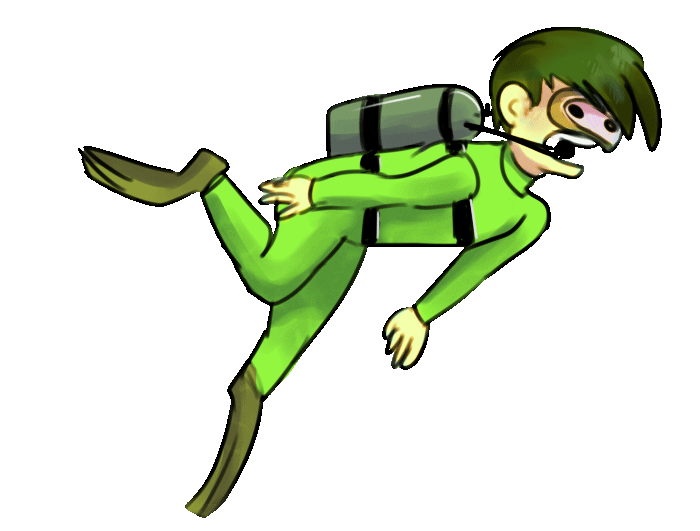
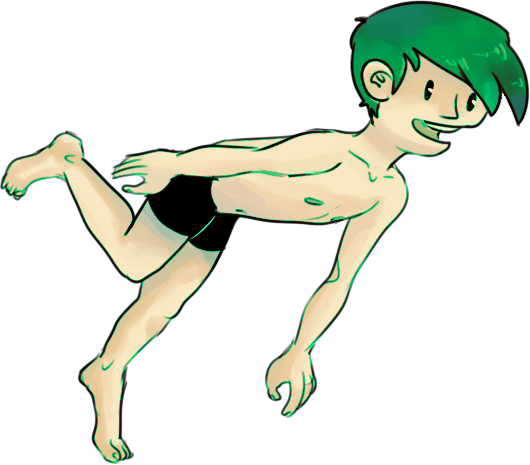
added buddy gear and gave him green hair

diff --git a/Scuba/Divers.py b/Scuba/Divers.py
@@ -6,7 +6,6 @@ Created on Mar 29, 2013
 import pygame
 import csv#from PIL import GIFImage
 import random
-import math
 
 def load(savefile):
     with open(savefile, 'rt') as f:
@@ -336,8 +335,8 @@ def keyaccel(pic): # True is right;  Need to fix the coordinates of the diver wi
     global y_min_edge
     global y_max_edge
     global orangedead
-    #global accel
-    accel = 0.5
+    global accel
+    
     kickaccel = 0.5
     
     start_x = pic[1]
@@ -1302,8 +1301,8 @@ Snorkel = [[pygame.transform.rotate(pygame.image.load("Snorkel.png"), -30), 0, 0
 Goggles = [[pygame.image.load("Gogglesdiver.png"), 0, 0, 63, 40, 0, 0, True], # 1
               [pygame.image.load("Gogglesdiver.png"), 0, 0, 63, 40, 0, 0, True]]
 
-BCD = [[pygame.image.load("BCDdiver.png"), 0, 0, 70, 41, 0, 0, True], # 2
-              [pygame.image.load("BCDdiver.png"), 0, 0, 70, 41, 0, 0, True]]
+BCD = [[pygame.image.load("BCDdiver.png"), 0, 0, 70, 50, 0, 0, True], # 2
+              [pygame.image.load("BCDdiver.png"), 0, 0, 70, 50, 0, 0, True]]
 
 Fins = [[pygame.image.load("Finsdiver.png"), 0, 0, 97, 160, 0, 0, True], # 3
               [pygame.image.load("Finsdiver.png"), 0, 0, 97, 160, 0, 0, True]]
@@ -1321,7 +1320,7 @@ Gauges = [[pygame.image.load("Gaugesdiver.png"), 0, 0, 97, 51, 0, 0, True], # 7
               [pygame.image.load("Gaugesdiver.png"), 0, 0, 97, 51, 0, 0, True]]
 
 Wetsuit = [[pygame.image.load("Wetsuitdiver.png"), 0, 0, 212, 186, 0, 0, True], # 8
-              [pygame.image.load("Wetsuitdiver.png"), 0, 0, 212, 286, 0, 0, True]]
+              [pygame.image.load("Wetsuitdiver2.png"), 0, 0, 212, 186, 0, 0, True]]
 
 #Drysuit = [[pygame.image.load("Drysuitdiver.png"), 0, 0, 100, 100, 0, 0, True], # 9
 #            [pygame.image.load("Drysuitdiver.png"), 0, 0, 100, 100, 0, 0, True]]
@@ -1345,10 +1344,12 @@ Flashlight = [[pygame.image.load("Flashlight.png"), 0, 0, 100, 100, 0, 0, True],
 #######################
 Orangediver = [pygame.image.load("Orangediver.png"), 200, 200, 212, 186, 10, 10, True]
 Orangediverkick = [pygame.image.load("Orangediverkick.png"), 200, 212, 286, 200, 10, 10, True]
-Orangediverdead = [pygame.image.load("Orangediverdead.png"), Orangediver[1], Orangediver[2], 230, 145, Orangediver[5], Orangediver[6], Orangediver[7]]
+Orangediverdead = [pygame.transform.flip(pygame.image.load("Orangediver.png"), False, True), Orangediver[1], Orangediver[2], Orangediver[3], Orangediver[4], Orangediver[5], Orangediver[6], Orangediver[7]]
 
-Greendiver = [pygame.image.load("Greendiver.png"), 0, 200, 224, 188, 10, 10, True]
-Greendiverkick = [pygame.image.load("Greendiverkick.png"), 0, 200, 224, 188, 10, 10, True]
+#Greendiver = [pygame.image.load("Greendiver.png"), 0, 200, 224, 188, 10, 10, True]
+#Greendiverkick = [pygame.image.load("Greendiverkick.png"), 0, 200, 224, 188, 10, 10, True]
+Greendiver = [pygame.image.load("Greendiver.png"), 0, 200, 212, 186, 10, 10, True]
+Greendiverkick = [pygame.image.load("Greendiverkick.png"), 0, 200, 212, 186, 10, 10, True]
 
 Eel = [[pygame.image.load("Eel.png"), -1000, -1000, 300, 100, 2, 2, True, False],
        [pygame.image.load("Eel.png"), -1000, -1000, 300, 100, 2, 2, True, False],
@@ -1633,7 +1634,7 @@ while done == False:
             
             Orangediver = [pygame.image.load("Orangediver.png"), 400, 200, 212, 186, 10, 10, True]
             Orangediverkick = [pygame.image.load("Orangediverkick.png"), 400, 212, 286, 200, 10, 10, True]
-            Greendiver = [pygame.image.load("Greendiver.png"), 0, 200, 224, 188, 10, 10, True]
+            Greendiver = [pygame.image.load("Greendiver.png"), 0, 200, 212, 186, 10, 10, True]
             Orangediver[5] = 0
             Orangediver[6] = 0
             orangedead = False
@@ -1736,13 +1737,13 @@ while done == False:
             Greendiver = movebackground(Greendiver, Orangediver)
         elif greenrise == True:
             if Orangediver[7] == True:
-                ox1 = 129
-                ox2 = 160
+                ox1 = 155 #129
+                ox2 = 160 #160
             else:
-                ox1 = 95
-                ox2 = 64
-            oy1 = 118
-            oy2 = 31
+                ox1 = 64 #95
+                ox2 = 64 #64
+            oy1 = 146 #118
+            oy2 = 31 #31
             offerness = 5
             if fancycollision(Greendiver, Orangediver, ox1, oy1, ox2, oy2, offerness) == False:
                 if Greendiver[1] + ox1 + offerness < Orangediver[1] + ox2 - offerness:
@@ -1824,7 +1825,6 @@ while done == False:
         ##############################################################3
         ################################################################
         ##########################################################
-            
         Snorkel[1][7] = Greendiver[7]
         Snorkel[1][3] = 75
         Snorkel[1][4] = 75
@@ -1881,30 +1881,29 @@ while done == False:
             Gauges[1][1] = Greendiver[1] + 70
             Wetsuit[1][1] = Greendiver[1]
             Flashlight[1][1] = Greendiver[1] + 56
-            ######################################################
-            ######################################################
-                
+   
+            
         #####################################################
         rowdraw(Boat, 0)        
         for n in range(10):
             if greenrise == False:
-                Wave[n] = rowmovebackground(Wave, n, Greendiver)
+                Wave[n] = rowmovebackground(Wave, n, Orangediver)
             rowdraw(Wave, n)
         for n in range(40):
             if greenrise == False:
-                Underwave[n] = rowmovebackground(Underwave, n, Greendiver)
+                Underwave[n] = rowmovebackground(Underwave, n, Orangediver)
             rowdraw(Underwave, n)
         for n in range(20):
             if greenrise == False:
-                Rock0[n] = rowmovebackground(Rock0, n, Greendiver)
+                Rock0[n] = rowmovebackground(Rock0, n, Orangediver)
             rowdraw(Rock0, n)
         for n in range(10):
             if greenrise == False:
-                Coral0[n] = rowmovebackground(Coral0, n, Greendiver)
+                Coral0[n] = rowmovebackground(Coral0, n, Orangediver)
             rowdraw(Coral0, n)
         if greenrise == False:
-            Boat[0] = rowmovebackground(Boat, 0, Greendiver)
-            Treasurechest[0] = rowmovebackground(Treasurechest, 0, Greendiver)
+            Boat[0] = rowmovebackground(Boat, 0, Orangediver)
+            Treasurechest[0] = rowmovebackground(Treasurechest, 0, Orangediver)
 
         #########################################################
         #### Level Initialization and Fish ############
@@ -1986,11 +1985,11 @@ while done == False:
                 rowdraw(Snorkel, 1)
         animatedgreen()
         if equipment[8] == 1:
-            rowdraw(Wetsuit, 1)
+                rowdraw(Wetsuit, 1)
         movebubbles(Greendiver, 4, 40)
         if equipment[0] == 1:
-            if Greendiver[7] == False: ## In front
-                rowdraw(Snorkel, 1)
+                if Greendiver[7] == False: ## In front
+                    rowdraw(Snorkel, 1)
         if equipment[1] == 1:
             rowdraw(Goggles, 1)
         if equipment[2] == 1:
@@ -2007,8 +2006,6 @@ while done == False:
             rowdraw(Gauges, 1)
         if equipment[11] == 1:
             rowdraw(Flashlight, 1)
-  
-
      
         #######################
         ### Draw Equipment ###
